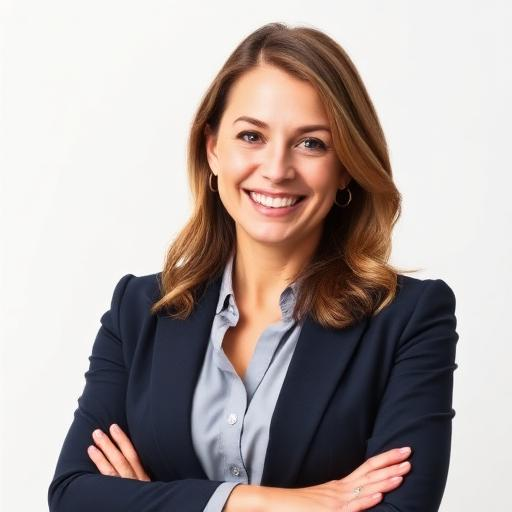
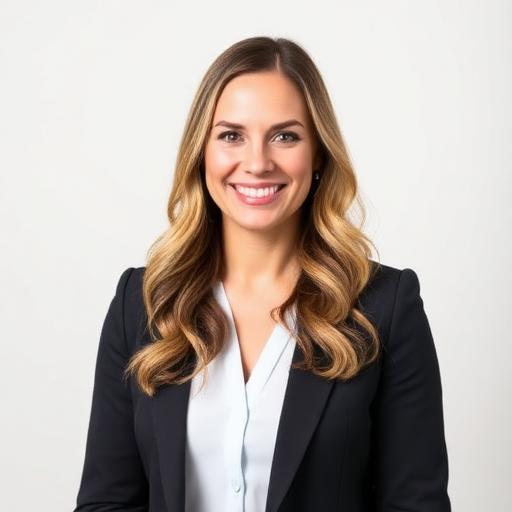
Recreate assets folder

diff --git a/src/assets/README.md b/src/assets/README.md
@@ -1,0 +1,14 @@
+# Assets Folder
+
+This folder contains all project assets including:
+
+- Images (JPG, PNG, SVG)
+- Icons
+- Fonts
+- Other static assets
+
+## Current Assets
+
+- `coach-photo.jpg` - Professional headshot of the career coach
+- `crossroads-illustration.jpg` - Illustration for the Challenge component  
+- `hero-image.jpg` - Background image for the Hero section
